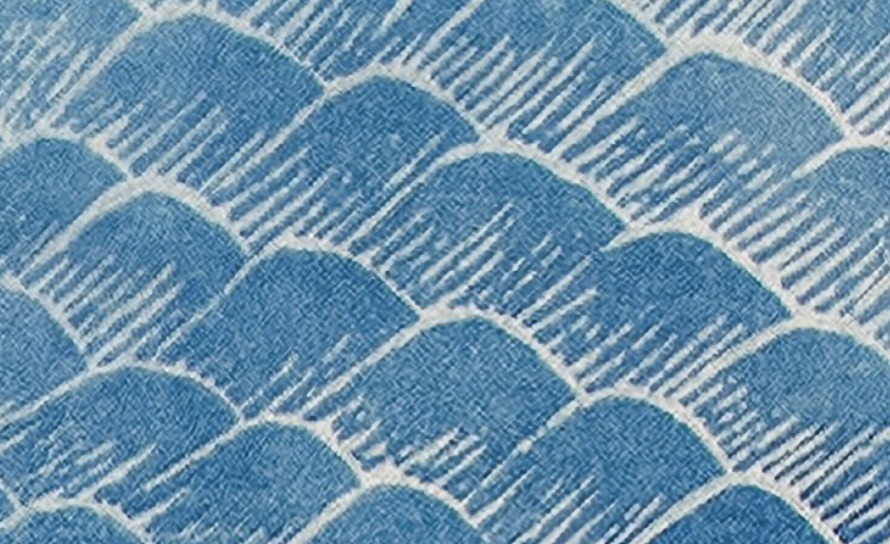
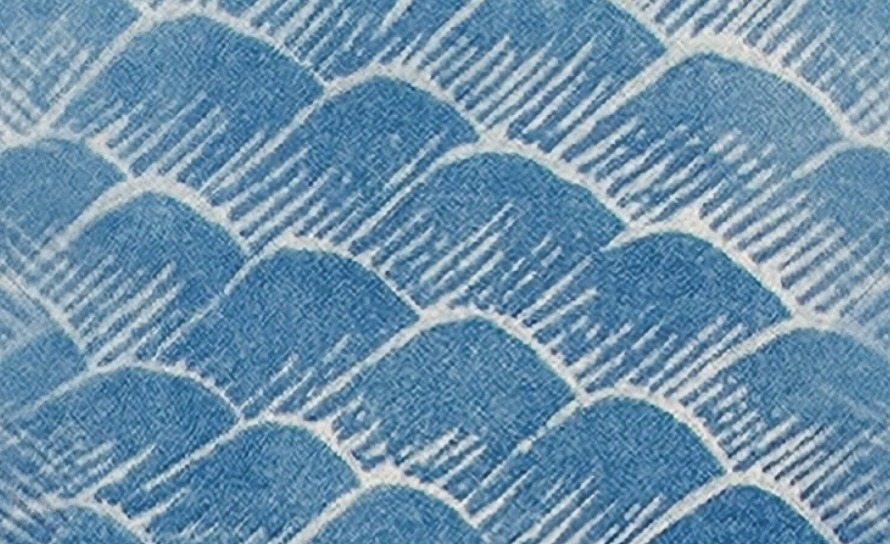
Tiling

diff --git a/src/viewer/seaUnderlay.ts b/src/viewer/seaUnderlay.ts
@@ -4,7 +4,7 @@ import { MAP_ASPECT } from '../config'
 
 const LAND_URL = '/land/map-land.webp?v=21'
 /** Canonical seigaiha tile — default for seas 1 & 3. */
-const WAVE_ORIGINAL = '/patterns/wave-seigaiha.jpg'
+const WAVE_ORIGINAL = '/patterns/wave-seigaiha.jpg?v=2'
 const FADE_MS = 650
 const DRIFT_MS = 36_000
 /** Default tile aspect (height / width) for wave-seigaiha.jpg */
@@ -98,7 +98,7 @@ export type SeaUnderlayOptions = {
 
 function waveUrl(name: string | undefined): string {
   if (!name || name === 'wave-seigaiha.jpg') return WAVE_ORIGINAL
-  return `/patterns/${name}`
+  return `/patterns/${name}?v=2`
 }
 
 function clearTileCache(viewer: Viewer): void {
@@ -343,9 +343,12 @@ export function startSeaUnderlay(
 
   const worldOpacities: number[] = []
 
-  const applyDrift = (t: number) => {
+  const applyDrift = (cycles: number) => {
+    // Unwrapped cycle count — wrapping *before* multiplying by drift jumps
+    // any pattern whose drift ≠ 1 when the global loop restarts.
     for (const { el, tileFrac, phase, drift, originX } of patterns) {
-      const p = (phase + t * drift) % 1
+      let p = (phase + cycles * drift) % 1
+      if (p < 0) p += 1
       el.setAttribute('patternTransform', `translate(${originX + p * tileFrac} 0)`)
     }
   }
@@ -354,8 +357,8 @@ export function startSeaUnderlay(
     if (stopping) return
     raf = requestAnimationFrame(tickDrift)
     if (preferStill || wavesPaused) return
-    const t = ((now - driftOrigin - pauseAccum) / DRIFT_MS) % 1
-    applyDrift(t < 0 ? t + 1 : t)
+    const cycles = (now - driftOrigin - pauseAccum) / DRIFT_MS
+    applyDrift(cycles)
   }
 
   const onDraw = (

diff --git a/src/styles/viewer.css b/src/styles/viewer.css
@@ -85,7 +85,7 @@ body {
   inset: 0;
   z-index: 0;
   pointer-events: none;
-  background-image: url('/patterns/wave-seigaiha.jpg');
+  background-image: url('/patterns/wave-seigaiha.jpg?v=2');
   background-repeat: repeat;
   background-position: center;
   background-size: 280px auto;
